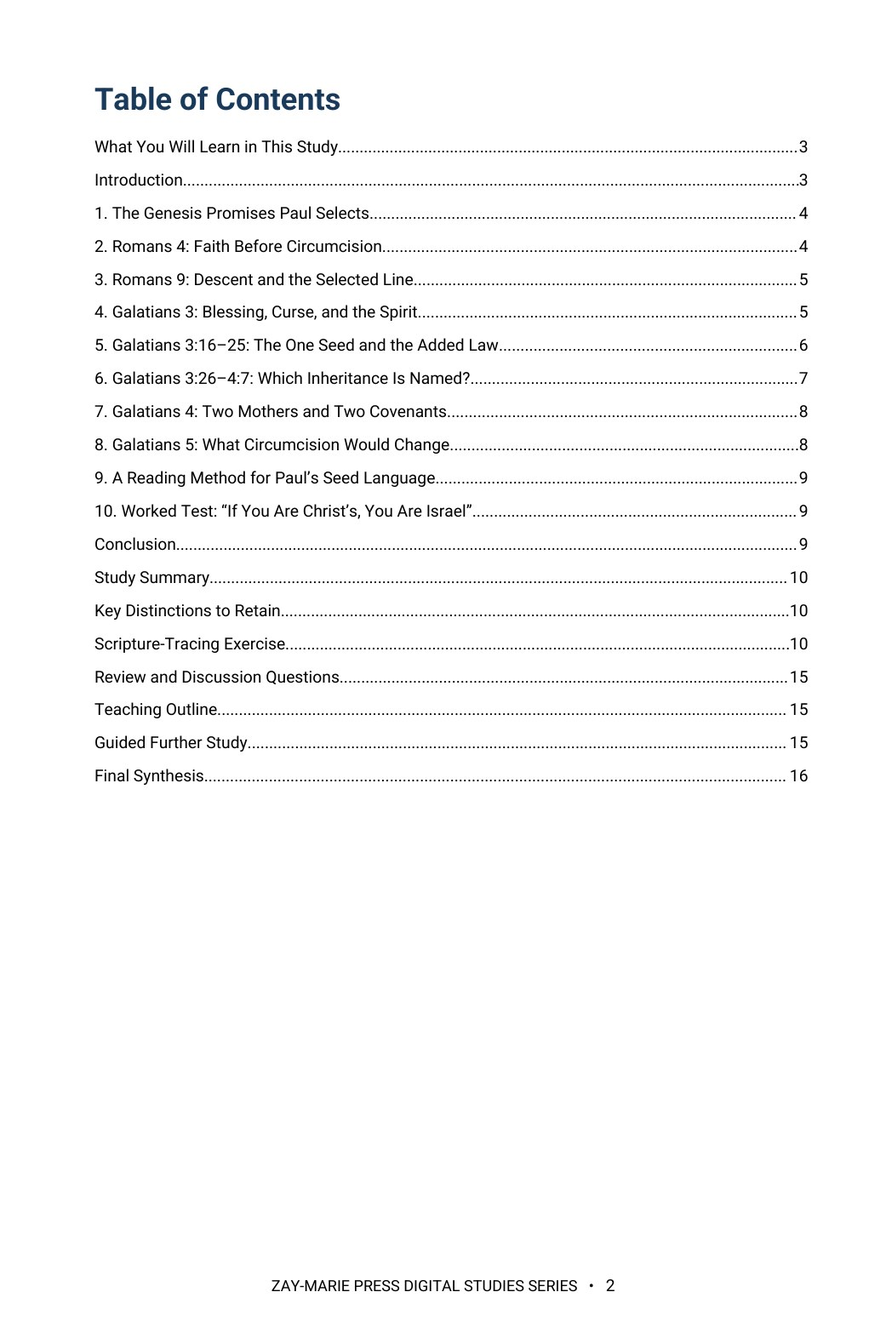
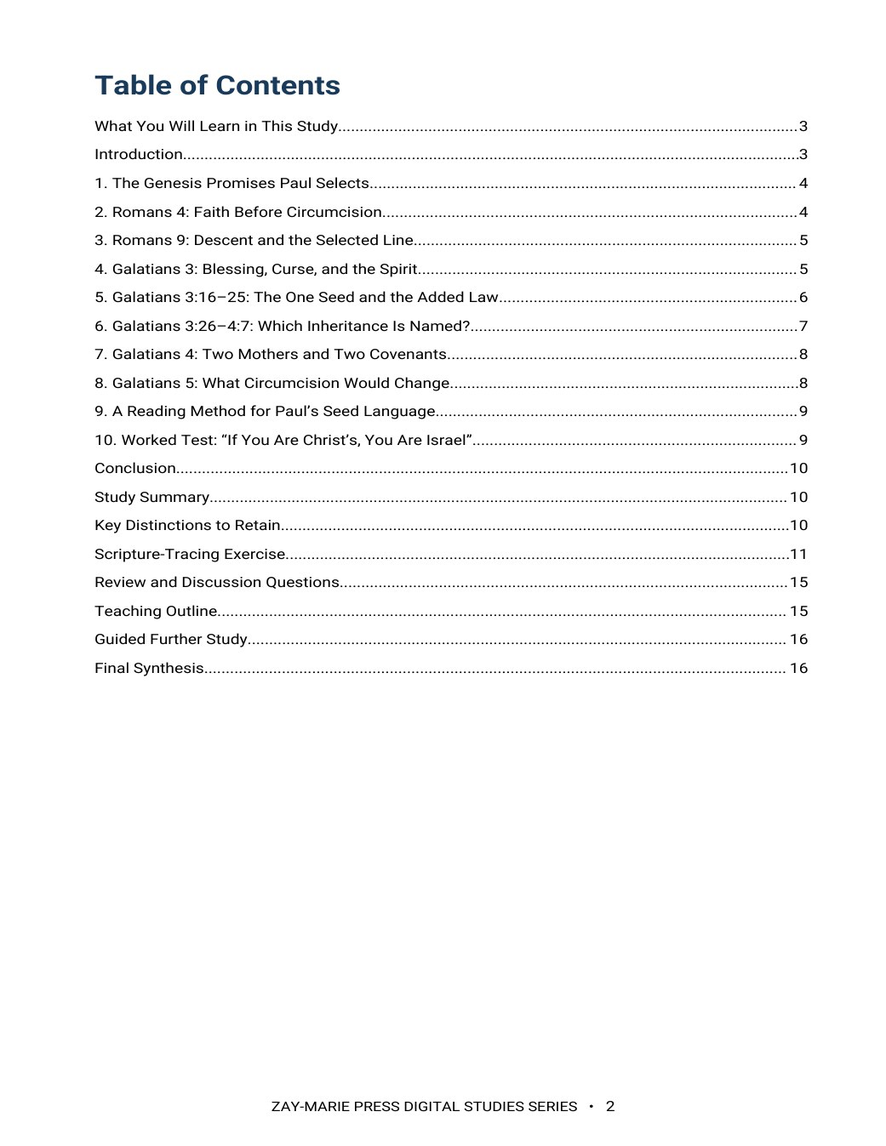
Study 40 retrofit: previews 2-4, trackers v1.22 / PAM audit v1.115
Claude-Session: https://claude.ai/code/session_01KcENxFzE91mCRyTPWhcwnE

diff --git a/CLAUDE.md b/CLAUDE.md
@@ -18,7 +18,7 @@ These are kept in the repo at `controlling-documents/` and are the current versi
 - **`controlling-documents/Zay-Marie_Press_Digital_Studies_Master_Standard_v1.45.pdf`** — Master Standard v1.45 (an editable `.docx` copy sits beside the PDF). Governs study structure, cover, PDF assembly, website package and publication (includes §16 Individual Study Preview Selection Standard). §16 fixes the preview set at exactly three pages: Table of Contents, What You Will Learn, and one further page of real substance that does not give away the study's thesis. As of v1.19, §2 (Forward Cover System) adds a Cover Art Brief step: Claude drafts a detailed written cover art description (image concept, composition, palette, lighting, symbolic content) for the publisher to hand to the illustrator, before the illustrator produces artwork — see Approval Checkpoint 3 below. As of v1.20, §6 (Body-Content Standard) fixes exact interior spacing values: body paragraphs 6pt space-after / 0pt space-before / 1.08 line spacing; Heading 1 14pt space-before / 8pt space-after; Heading 2 10pt space-before / 5pt space-after. As of v1.21, §9 (Content-Depth and Page-Length Standard) fixes the substantive-interior page count at exactly 15 pages, replacing the prior 13–17 page range; matching references updated in the Page-Count Control note (§3) and Stages 2 and 4 of the Study Development and Approval Workflow (§14). As of v1.22, §18 (About This Study — Related-Study Distinction Standard, originally added as §17 and renumbered by v1.24) requires a second paragraph in every study's About This Study section, placed before the "How These Studies Relate" box: it names the specific neighbouring studies a reader might confuse this one with, states what ground each one covers that this study doesn't (or vice versa), and closes with the single narrower question this study alone answers — see the "About This Study" bullet below. Governs new studies going forward; existing studies get it when reopened or when the publisher directs a retrofit. As of v1.23, §13 (Tables Symbols and Contrast Standard) changes the table-header treatment from dark navy to Slate Blue (#3B6E91) with high-contrast light text retained; the border-color cross-reference in the same section is updated to match. Applies to all studies going forward. As of v1.24, new §17 (Preview-Page Interpretive-Outcome Standard) codifies the publisher's 2026-09-28 preview-page conclusion-spoiler directive (see the section below) as a Master Standard requirement: preview pages must state interpretive outcomes and name the textual markers the reader will trace, never the study's doctrinal conclusion. Adding it renumbered the former §17/§18/§19 to §18 (About This Study), §19 (Locked Status), and §20 (Version History). As of v1.25 (publisher directive, 2026-09-28), §5 (Table of Contents Standard) requires Arabic numerals only — Roman numerals are never used in a Table of Contents — and a single flat list on one left-aligned axis: What You Will Learn in This Study, Introduction, the teaching sections numbered exactly as in the body, then Conclusion through Final Synthesis; Study Goal and Study Outline are not TOC entries. As of v1.26 and v1.27 (publisher directive, 2026-09-30), §8 (renamed Color and Typography Control) carries the Interior Typeface Standard: every Digital Study interior and Doctrinal Packet, headings included, is set in **Roboto** in four true faces (Regular, Italic, Bold, Bold Italic; static files; lining numerals), with no other or fallback font embedded. v1.26 first specified EB Garamond; the publisher replaced it with Roboto in v1.27 after a Study 2 test build. It applies to all studies past, present and future, and to Doctrinal Packets; Stages 3 and 4 of §14 require it and a `pdffonts` check. Existing studies move to it when reopened or when the publisher directs. The static Roboto files and the build recipe are in `fonts/` (see `fonts/README.md`); the Framework carries the rule as PAM Rule 6 and a dated Section 4 (continued) entry. The v1.26/v1.27 files were rebuilt from the publisher's v1.13 DOCX (Sections 1–2) plus the v1.25 text. As of v1.28 (publisher directive, 2026-09-30): §4 requires exactly five callouts per study, all boxed (light-blue box, 1 pt dark navy border, bold uppercase navy title; extra source callouts become body paragraphs with a bold run-in lead, wording unchanged); §10 places the copyright notice only in the end imprint, with no front copyright page; §13 makes table body rows plain white under Slate Blue headers. As of v1.29 (publisher directive, 2026-09-30), §5 sets Table of Contents entries at the body-paragraph spacing (6 pt after, 1.08 line spacing) as first shown in Study 5, for studies built from Study 6 forward; Studies 1–5 and 9 keep their current TOC spacing unless reopened. As of v1.30 (publisher directive, 2026-09-30), §6 sets Heading 1 (numbered major sections) at 12 pt space-before and 8 pt space-after, replacing 14 pt space-before, as compared side by side on Study 6 page 5; it applies to studies built from Study 6 forward, and Studies 1–5 and 9 (built at 14 pt) are not reopened for it. Heading 2 (10/5) and body paragraphs (6 pt after, 1.08) are unchanged. As of v1.31 (publisher directive, 2026-10-01), new §19 (Catalog Category Standard) fixes the five catalog categories, the ordered decision procedure, the precedents, the 71 final assignments and the cover-label forms (working copy and version history in `controlling-documents/Digital_Studies_Category_Standard_v1.1.md`); Locked Status and Version History moved to §20 and §21. As of v1.32 (publisher directive, 2026-10-01), the upper-right cover label must be the exact name of the study's catalog category (§2 Cover Architecture and §19 Cover Labels); the shortened and legacy labels RIGHT DIVISION, PROPHECY, DOCTRINE, INTERPRETATION and BIBLICAL DOCTRINE are retired and all 71 covers were re-lettered. As of v1.33 (publisher directive, 2026-10-01), new §20 (Doctrinal Drafting Standard) carries PAM Rules 7–10 from the Framework so settled rulings are applied without being asked again: identity wording ("the Israel of God" = believing Jews within the Body, Israel by identity; never "believing Israel" alone; never a remnant beside or outside the Body in the present administration; required clarifier "This speaks of identity, not program membership; the remnant is ethnic-covenantal, and believing Jews are gathered into the Body during the Mystery administration"; Gentiles participate spiritually, never called Israel or "spiritual Israel"); the anchoring-sentence rule for books the PAM does not assign (Hebrews, Revelation, James, 1 Peter, 2 John; Philippians, 1 Thessalonians, 2 Timothy; Gal 2:1–10 report-only); standing wording for the Acts divisions, "the 'one taken, one left' passages", Eph 2:14 "abolished for the Body", judgment and related rulings; and the review procedure (conforming wording is applied and noted in one line, and only a new or uncovered passage is reported for a ruling). Locked Status and Version History moved to §21 and §22. As of v1.34 (publisher directive, 2026-10-01), Rule 7 adds the overlap-period rule: Peter's believing company and the circumcision apostleship during Acts 9–28 may be described as continuing under the Prophecy Program only with the clarification "During the overlap, the circumcision apostleship ministers to Israel under the Prophecy Program; believing Jews are gathered into the Body through Paul's ministry, and this speaks of identity, not program membership" (program membership and corporate identity are not the same question; no believing Israelite is placed outside the Body after Acts 9). As of v1.35 (publisher directive, 2026-10-01), §20 adds Rule 11: Paul's fillings, signs and miraculous events in Acts 9–28 are overlap phenomena, reported from the text and not assigned to a single program; they occur in settings shaped by Israel's Prophecy Program, but Paul's participation does not convert them into Prophecy Program content or make them Mystery content (standing wording: "These are recorded in settings shaped by Israel's Prophecy Program, which remained operative throughout Acts 9–28 even as the Mystery Program began. Acts 9–28 is the overlap; where Paul or his companions are the ones filled or working signs, the study reports the text and does not assign the event to a single program."; Acts table column title "The Spirit's Activity Recorded in Acts"; speaker identity is not program identity, and historical participation is not doctrinal obligation). Rule 10 refers to Rules 1–9 and 11. As of v1.36 (publisher directive, 2026-10-01), §20 adds Rule 12: where the PAM does not assign a book or passage, the study may use the text for universal doctrinal truth without assigning the book to a program, and must include the anchoring sentence "The Framework does not assign this book; this reading rests on the passage's own audience markers and setting." (it extends Rule 8 to unassigned books and passages Rule 8 does not name); Rule 10 refers to Rules 1–9, 11 and 12. As of v1.45 (publisher directive, 2026-10-02), §20 Rules 8, 12 and 14 carry the **reader-facing wording rule, extended**: internal working terms never appear in reader-facing text. The Framework, the PAM (Program Assignment Manual), the Master Standard, rule numbers, standing sentences, anchoring sentences, review notes, audit trackers, "firewall" and every similar working term are never named, cited or alluded to in study text, website copy or Doctrinal Packets. The Rule 8 and Rule 12 anchor sentences and the Hebrews sentence are replaced by reader-facing forms: for a book, "This reading rests on the letter's own audience markers and setting."; for a passage, "This reading rests on the passage's own audience markers and setting." (plural "these passages … the passages' own audience markers and setting"); the Hebrews sentence becomes "This reading rests on the letter's own audience markers and on the covenant it quotes (Jeremiah 31:31–34), which belongs to the house of Israel and the house of Judah, the Body benefiting from Christ's blood without being the covenant party." Whether a line is needed is still decided by the reviewer's classification (book not assigned or listed; passage in a PAM-assigned book with no PAM entry; other Rule 12 cases), but the reader sees one sentence and no internal term. The v1.44 "The Framework does not assign …" and "The PAM makes no assignment …" wordings are WITHDRAWN and are converted when a study is reopened or in the Wave 5 sweep; first applied to Study 55. Written into the Framework Rules 8, 12 and 14 in the same pass. As of v1.44 (publisher directive, 2026-10-02), §20 Rule 12 adds **anchor wording by classification** (superseded by v1.45 for the sentence text) (also written into Framework Rule 12): a book the PAM does not assign or list (Philippians, Hebrews, James, 1 Peter, 2 John) keeps "The Framework does not assign [book] as a book; this reading rests on the letter's own audience markers and setting."; a passage inside a PAM-assigned book (Galatians, Romans, Ephesians, Corinthians, Acts, John, Luke) that has no PAM entry takes "The PAM makes no assignment for this passage; this reading rests on the passage's own audience markers and setting." (plural "these passages" where a line covers several). First applied to Study 51; every study brought through the retrofit is checked for it. As of v1.43 (publisher directive, 2026-10-02), §20 Rule 14 adds the **reader-facing wording rule** (also written into Framework Rule 14): "firewall," "Olive Tree Firewall" and similar control labels are internal drafting terms and never appear in study text, website copy or Doctrinal Packets; studies state the boundaries in plain language (for example "Four boundaries govern the reading:"), and any term a study has not itself introduced and defined is treated the same way. Studies 9, 13, 35 and 36 were corrected on 2026-10-02. As of v1.42 (publisher directive, 2026-10-02), §20 Rule 14 adds the **Romans 11 Strong Firewall** as a standing rule for every Romans 11 treatment in every study (also written into Framework Rule 14): Romans 11 explains prophetic participation, not corporate identity, covenant membership or Mystery formation; the wild branch does not become Israel, enter Israel's covenants or become a natural branch; the olive tree is not the Body; standing triad "Participation is not identity. Blessing is not covenant. Standing is not program membership."; "Identity is fixed by divine program, not by metaphor."; "Salvation has come to the Gentiles" means salvation, not covenant, prophetic identity or Israel's program; four-point governing list (olive tree = prophetic blessing; Romans 11 Gentiles = prophetic participants; wild branches are not Body members; grafting changes participation, not identity); warning line on identity transfer; concurrency close ("Concurrency is operational, not transformational."). Depth: a study that treats Romans 11 at length carries the full firewall in the voice of Study 13 v2 (the reference text); a passing citation carries at least the four-point list and the triad; a mild clarification is not sufficient. Studies 9, 21, 35, 36 and others are brought to it when reopened or when the publisher directs. As of v1.41 (publisher directive, 2026-10-02), Rules 7 and 15 carry two approved standing sentences for the retrofit: overlap — "During the overlap, the circumcision apostleship ministers to Israel under the Prophecy Program, and Paul's gospel forms the Body; the two operate concurrently and never merge, transfer or absorb one another." (replaces the withdrawn "gathered into the Body" sentence); Galatians 3 — "The seed is prophetic fulfillment in Christ; the Body receives blessing through Christ alone, not through participation in the Abrahamic covenant." (replaces all older Abrahamic-participation language). As of v1.40 (publisher directive, 2026-10-02), Rules 7 and 17 add the ruling that a Jewish member of the Body is not Israel: Body by identity, new creation by ontology, non-Israel by corporate identity, non-prophetic by program membership, non-covenantal by blessing structure, heavenly by destiny; ethnicity is a historical fact with no covenantal or programmatic force once a person is in the Body. The Rule 7 line "Israel remains Israel; the ethnic distinction is kept" is replaced by "Israel remains Israel, and the Body is not Israel"; the Framework identity sections (§V, PAM definition 2) carry it too. As of v1.39 (publisher directive, 2026-10-02), §20 adds Rule 17 (The remnant and the Body during Acts 9–28), also written into the Framework §XIX: the remnant never becomes the Body and stays outside the Body, the Mystery Program, the heavenly calling and Pauline identity; the Body is formed only by Paul's gospel from Acts 9, is gathered in on belief and is not Israel or the remnant; no shared identity, membership, covenant, gospel, hope, Spirit ministry or destiny; the standing summary sentence ("During Acts 9–28, the remnant remains Israel's prophetic believing company, and the Body remains the Mystery new creation. They coexist historically but never merge in identity, membership, calling, covenant, gospel, hope, or destiny. Concurrency is operational, not transformational.") and the one-sentence relationship rule are used wherever the relationship is stated; Rule 10 now reads "Rules 1–9 and 11–17". As of v1.38 (publisher directive, 2026-10-02), §20 (Doctrinal Drafting Standard) is amended and extended to carry the Framework's doctrinal upgrade: Rules 7–10 are rewritten and Rules 13–16 are added (see the Framework entry above for the points and the withdrawn wordings); Rule 10 now reads "Rules 1–9 and 11–16"; Rule 8 no longer lists Revelation as unassigned. As of v1.37 (publisher directive, 2026-10-02), a new "Study 52 Reference Standard" subsection in §6 makes Study 52 (Sonship and Adoption) the **golden standard** for the format, structure and blue/black type balance of every Digital Study from Study 53 forward: navy (#1B3350) only on major-section headings (Roboto Bold 17 pt), callout titles (10 pt bold caps) and the "Study Outline" sub-heading (12 pt bold); everything else black Roboto Regular 9 pt; numbered subsections (1.1, 1.2 …) are body-weight black lines at body spacing, not navy headings (as in Studies 50, 51 and 52); about 1–2% of interior characters navy; the section order, five boxed callouts, KJV tables (Verse / KJV text / What to observe), Scripture-Tracing, Review, Teaching Outline, Guided Further Study, Final Synthesis and single end imprint on a 16-page build. Studies 1–51 are NOT retrofitted and stay as published; build every new study to Study 52's final approved PDF/DOCX as the visual reference, and do not set subsections in navy. The §6 Heading 2 line was clarified (10/5 applies to unnumbered sub-headings such as "Study Outline"). See §22 Version History in the document itself.
 - **`controlling-documents/Digital_Studies_Relationship_Map_v1.39.md`** — records each study's distinct subject, its related studies, the eight priced six-study collections, the Paul's Missionary Journeys cross-reference map, and the five primary catalog categories (currently version 1.39, covers Studies 1–71; update it as new studies publish, bump the version number, rename the file to match, and log the change in its own version-history table — mirroring the Master Standard's `_vX.Y` filename convention). Check a proposed topic against it before recommending or writing a new study. (2026-09-28: the file was missing from this repo despite this note referencing it; replaced from the publisher's copy and bumped v1.15→v1.25 in the same pass. If this note ever again points to a version not present under `controlling-documents/`, ask the publisher for a copy rather than proceeding without the check.)
 - **`controlling-documents/Digital_Studies_Category_Standard_v1.1.md`** — FINAL and binding (publisher, 2026-10-01): the rules for the five primary catalog categories (Foundations, Israel & Prophecy, Body of Christ, Passages, Doctrinal Themes), the ordered decision procedure for new studies, the precedents, all 71 fixed assignments, and the cover-label form for each category. Read it before placing any card or cover label. Do not ask the publisher where a study belongs; apply the procedure and state the result. Only the publisher changes a ruling; then bump this Standard's version and filename, re-letter the cover, and update the Relationship Map.
-- **`controlling-documents/Doctrinal_Upgrade_Retrofit_Plan_v1.21.md`** — working tracker for retrofitting Studies 1–59 to the 2026-10-02 doctrinal upgrade (Framework/PAM v1.1, Master Standard v1.40, Rules 7–17): withdrawn-wording search keys, impact tiers, waves and the per-study method. Read it before continuing the retrofit in any session; update status, bump the version and rename the file as work proceeds.
+- **`controlling-documents/Doctrinal_Upgrade_Retrofit_Plan_v1.22.md`** — working tracker for retrofitting Studies 1–59 to the 2026-10-02 doctrinal upgrade (Framework/PAM v1.1, Master Standard v1.40, Rules 7–17): withdrawn-wording search keys, impact tiers, waves and the per-study method. Read it before continuing the retrofit in any session; update status, bump the version and rename the file as work proceeds.
 - **`controlling-documents/Doctrinal_Packet_Standard_v0.3.md`** — Doctrinal Packet Standard (DRAFT; §7 approved). Governs the separate Doctrinal Packets product strand (5-page interpretive PDFs per Bible book — a print-friendly cover as page 1 plus 4 content pages, $2.99, KJV, pilot: Genesis, live at `packet-genesis.html`, hub `doctrinal-packets.html`; site pages say "5 Pages", cover styles live in `packets.css`, Old Testament blue and New Testament soft pale green, hub listed in Bible order). **Preview rule (publisher directive, 2026-09-29, packets only):** previews show about one page's worth in two cropped views (top of page 1 through the anchor texts; the chart section) — never the exegesis, architecture, Mystery contrast, logic chain, outline, or closing. Master Standard §16/§17 still govern Digital Studies. Bump the version and rename the file as the Standard is finalized.
 - **`controlling-documents/Preview_Page_Spoiler_Retrofit_Audit_v1.4.md`** — working tracker for the Studies 1–60 preview-page conclusion-spoiler retrofit (see the section below). Read it before continuing that audit in any session; update its status fields and changelog, bump the version, and rename the file to match as the audit proceeds — same `_vX.Y` convention as the other controlling documents. As of v1.1, the website-side half was DONE: all 60 studies' "What You'll Study" text was judged against the rule (methodology documented in the file) and 22 points across 11 studies were rewritten and pushed; an unrelated Study 22 content bug (Study 21's content had leaked into it) was also found and fixed. As of v1.2, the publisher supplied Studies 1–60's interior production PDFs and the interior-PDF half was also surveyed (read-only): 10 studies (37, 41, 45, 47, 48, 49, 51, 52, 53, 54) were found to have at least one interior "What You Will Learn" violation, 50 studies were confirmed compliant, and the orphaned `assets/study-45-sanctification-under-grace.docx` (removed from the repo per the publisher in v1.0) was confirmed word-for-word identical to Study 45's actual production interior PDF content. As of v1.3, the publisher supplied editable DOCX sources for all 10 violating studies; all 15 violating points were rewritten and approved, delivered as corrected final PDFs, and — along the way — a second defect was found and fixed (Studies 47 and 48's source DOCX still had an unintegrated cover placeholder despite both being long-published live with real covers; fixed by inserting the existing approved cover art). The website's "What You Will Learn" preview image (`study-NN-page-3.jpg`) was regenerated from the corrected content for all 10 studies and pushed to `main` (commit `cea1859`), verified against a fresh clone. **The website side of this audit is now fully compliant for all 60 studies.** Outstanding: the publisher's purchasable interior PDF files themselves have corrected versions delivered, but distribution to existing purchasers was decided by the publisher on 2026-09-29: silent swap of the files behind the existing downloads, no reissue notice (recorded in the v1.4 changelog entry; the product files are not in this repo).
 

diff --git a/controlling-documents/Doctrinal_Upgrade_Retrofit_Plan_v1.22.md b/controlling-documents/Doctrinal_Upgrade_Retrofit_Plan_v1.22.md
@@ -37,6 +37,7 @@ Working tracker for correcting published studies to the Framework/PAM v1.1, Mast
 | 56 Inheritance | overlap sentence + Gal 3 | DONE 2026-10-02 (v1.18): interior corrected (16 pp, Roboto; no layout change needed). Withdrawn Galatians 3 'participate spiritually' wording (§4) replaced by the standing Galatians 3 sentence; withdrawn clarifier (Ephesians 1, §6) replaced by the Rule 17 sentence; withdrawn overlap sentence replaced by the standing sentence (§8 and §9); Acts 28 'not a transfer' added (§2, §9). Reader-facing anchors for 1 Peter, Hebrews and Colossians (no 'Framework'/'PAM' wording in the text). Ephesians 1:11–14, Romans 8:14–25, Galatians 4:4–7 and Acts 20:32 carry no anchor (not used for a universal claim). Four 'CONTROL' callout titles kept (publisher). Website unchanged (16 pp in site.js and page text; previews 2, 3 and 4 text identical, no re-render). |
 | 57 The Eternal Purpose of God | overlap sentence | DONE 2026-10-02 (v1.19): interior corrected (16 pp, Roboto; no layout change needed). Withdrawn overlap sentence replaced with the standing sentence (§7); Acts 28 'not a transfer' added (Introduction, §7); 2 Timothy anchor converted to the reader-facing form (§1); 'Acts Overlap framework' working term removed (Introduction, third pass); Romans 11 four-point list and triad added (third-pass Investigation). Website text and previews (pp. 2, 3, 7) unchanged; site.js 16 confirmed |
 | 58 What Is a Dispensation? | overlap sentence | DONE 2026-10-02 (v1.20): interior corrected (16 pp, Roboto; no layout change needed). Withdrawn overlap sentence replaced with the standing sentence (§5); Acts 28 'not a transfer' added (Introduction, §5 twice, Investigation); 'this framework' / 'Acts Overlap framework' working terms removed (§3, §5, Study Summary); Colossians anchor added (§4). Website: page-7 preview re-rendered (anchor sentence added on that page); site.js 58:16 added |
+| 40 Who Is Abraham's Seed? | Gal 3 / Abrahamic participation (core) | DONE 2026-10-02 (v1.22): interior corrected (16 pp, Roboto). Withdrawn overlap sentence replaced with the standing sentence (Introduction); Romans 11 four-point list and triad added (Introduction); the 'Gentiles participate spiritually / Abrahamic heirship, benefit, inheritance, connection' family replaced with the standing Galatians 3 sentence and plain wording (§6, §8, §10, Study Summary, Key Distinctions table); Romans 4 'participate in promise' and Teaching Outline 'share that benefit' reworded. Sections moved down: TOC updated (Conclusion p10, Scripture-Tracing p11, Guided Further Study p16); 16 pp. Website: preview pages 2, 3 and 4 re-rendered; site.js 40:16 unchanged |
 | 52 Sonship and Adoption | Gal 3 / Abrahamic participation | DONE 2026-10-02 (v1.21): interior corrected (16 pp, Roboto). Withdrawn Galatians 3:26–29 'Gentiles participate spiritually / ethnic distinction is kept' wording replaced by the standing Galatians 3 sentence (3.4) and the 'participation in the seed is spiritual' line reworded; Study 40 pointer parenthetical removed; nine 'The Framework does not assign…' anchors and the Hebrews sentence converted to the reader-facing forms; Romans 11 four-point list and triad added (Group 3). Shorter anchors moved sections up a page, so TOC numbers updated (§5 p9, §6 p11, Conclusion p12, etc.); total still 16 pp. Website: page-2 (TOC) preview re-rendered; pages 3 and 5 unchanged |
 ### Tier 2 — Galatians 3 / Abrahamic participation wording
 40 Who Is Abraham's Seed? (core), 52 Sonship and Adoption, 54, 56 (confirmed in text); 39, 17, 12 and 53 to be read (Abrahamic/covenant participation).
@@ -87,3 +88,4 @@ Working tracker for correcting published studies to the Framework/PAM v1.1, Mast
 - v1.19 (2026-10-02): Study 57 retrofit complete (see row). Next: Study 58 (What Is a Dispensation?), then Wave 3.
 - v1.20 (2026-10-02): Study 58 retrofit complete (see row); Wave 2 complete. Next: Wave 3 (Study 52 first, sources on hand). Note: site.js digitalStudyPageCounts had no entries for 57 and 58 (both added, 16); 59 and 60 are still absent and are to be checked in the Wave 5 sweep.
 - v1.21 (2026-10-02): Study 52 retrofit complete (see row). Next: Study 40 (Who Is Abraham's Seed?), DOCX to come from the publisher; then 39, 17, 12, 21.
+- v1.22 (2026-10-02): Study 40 retrofit complete (see row). Next: Study 39, then 17, 12, 21 (DOCX from the publisher).

diff --git a/controlling-documents/Digital_Studies_PAM_Audit_v1.115.md b/controlling-documents/Digital_Studies_PAM_Audit_v1.115.md
@@ -344,3 +344,4 @@ Study 15 PDF not yet supplied. Typography: none of Studies 2, 3, 6, 8 is in EB G
 - v1.112 (2026-10-02): Study 57 retrofitted: withdrawn overlap sentence replaced with the standing sentence (Section 7); Acts 28 'not a transfer' added (Introduction, Section 7); 2 Timothy anchor converted to the reader-facing form (Section 1); 'Acts Overlap framework' working term removed from reader text (Introduction, third-pass Investigation); Romans 11 four-point list and triad added (third-pass Investigation). Review copy 16 pp, Roboto only; website previews unchanged.
 - v1.113 (2026-10-02): Study 58 retrofitted: withdrawn overlap sentence replaced with the standing sentence (Section 5); Acts 28 'not a transfer' added (Introduction, Section 5, Investigation); 'this framework' / 'Acts Overlap framework' working terms removed from reader text; Colossians anchor added (Section 4, reader-facing form). Review copy 16 pp, Roboto only; page-7 website preview re-rendered.
 - v1.114 (2026-10-02): Study 52 retrofitted: withdrawn Galatians 3:26–29 participation wording replaced by the standing Galatians 3 sentence (3.4); Romans 11:1–2 given the four-point list and triad (Group 3); nine passage/book anchors and the Hebrews sentence converted to reader-facing forms; Study 40 pointer parenthetical removed. Review copy 16 pp, Roboto only; TOC page numbers updated; page-2 website preview re-rendered.
+- v1.115 (2026-10-02): Study 40 retrofitted: withdrawn overlap sentence replaced (Introduction); Romans 11 four-point list and triad added (Introduction); withdrawn 'Gentiles participate spiritually' and Abrahamic heirship/benefit/inheritance/connection wording replaced by the standing Galatians 3 sentence and plain wording (Sections 6, 8, 10, Study Summary, Key Distinctions table); Romans 4 and Teaching Outline participation wording reworded. Review copy 16 pp, Roboto only; TOC numbers updated; preview pages 2, 3 and 4 re-rendered.
